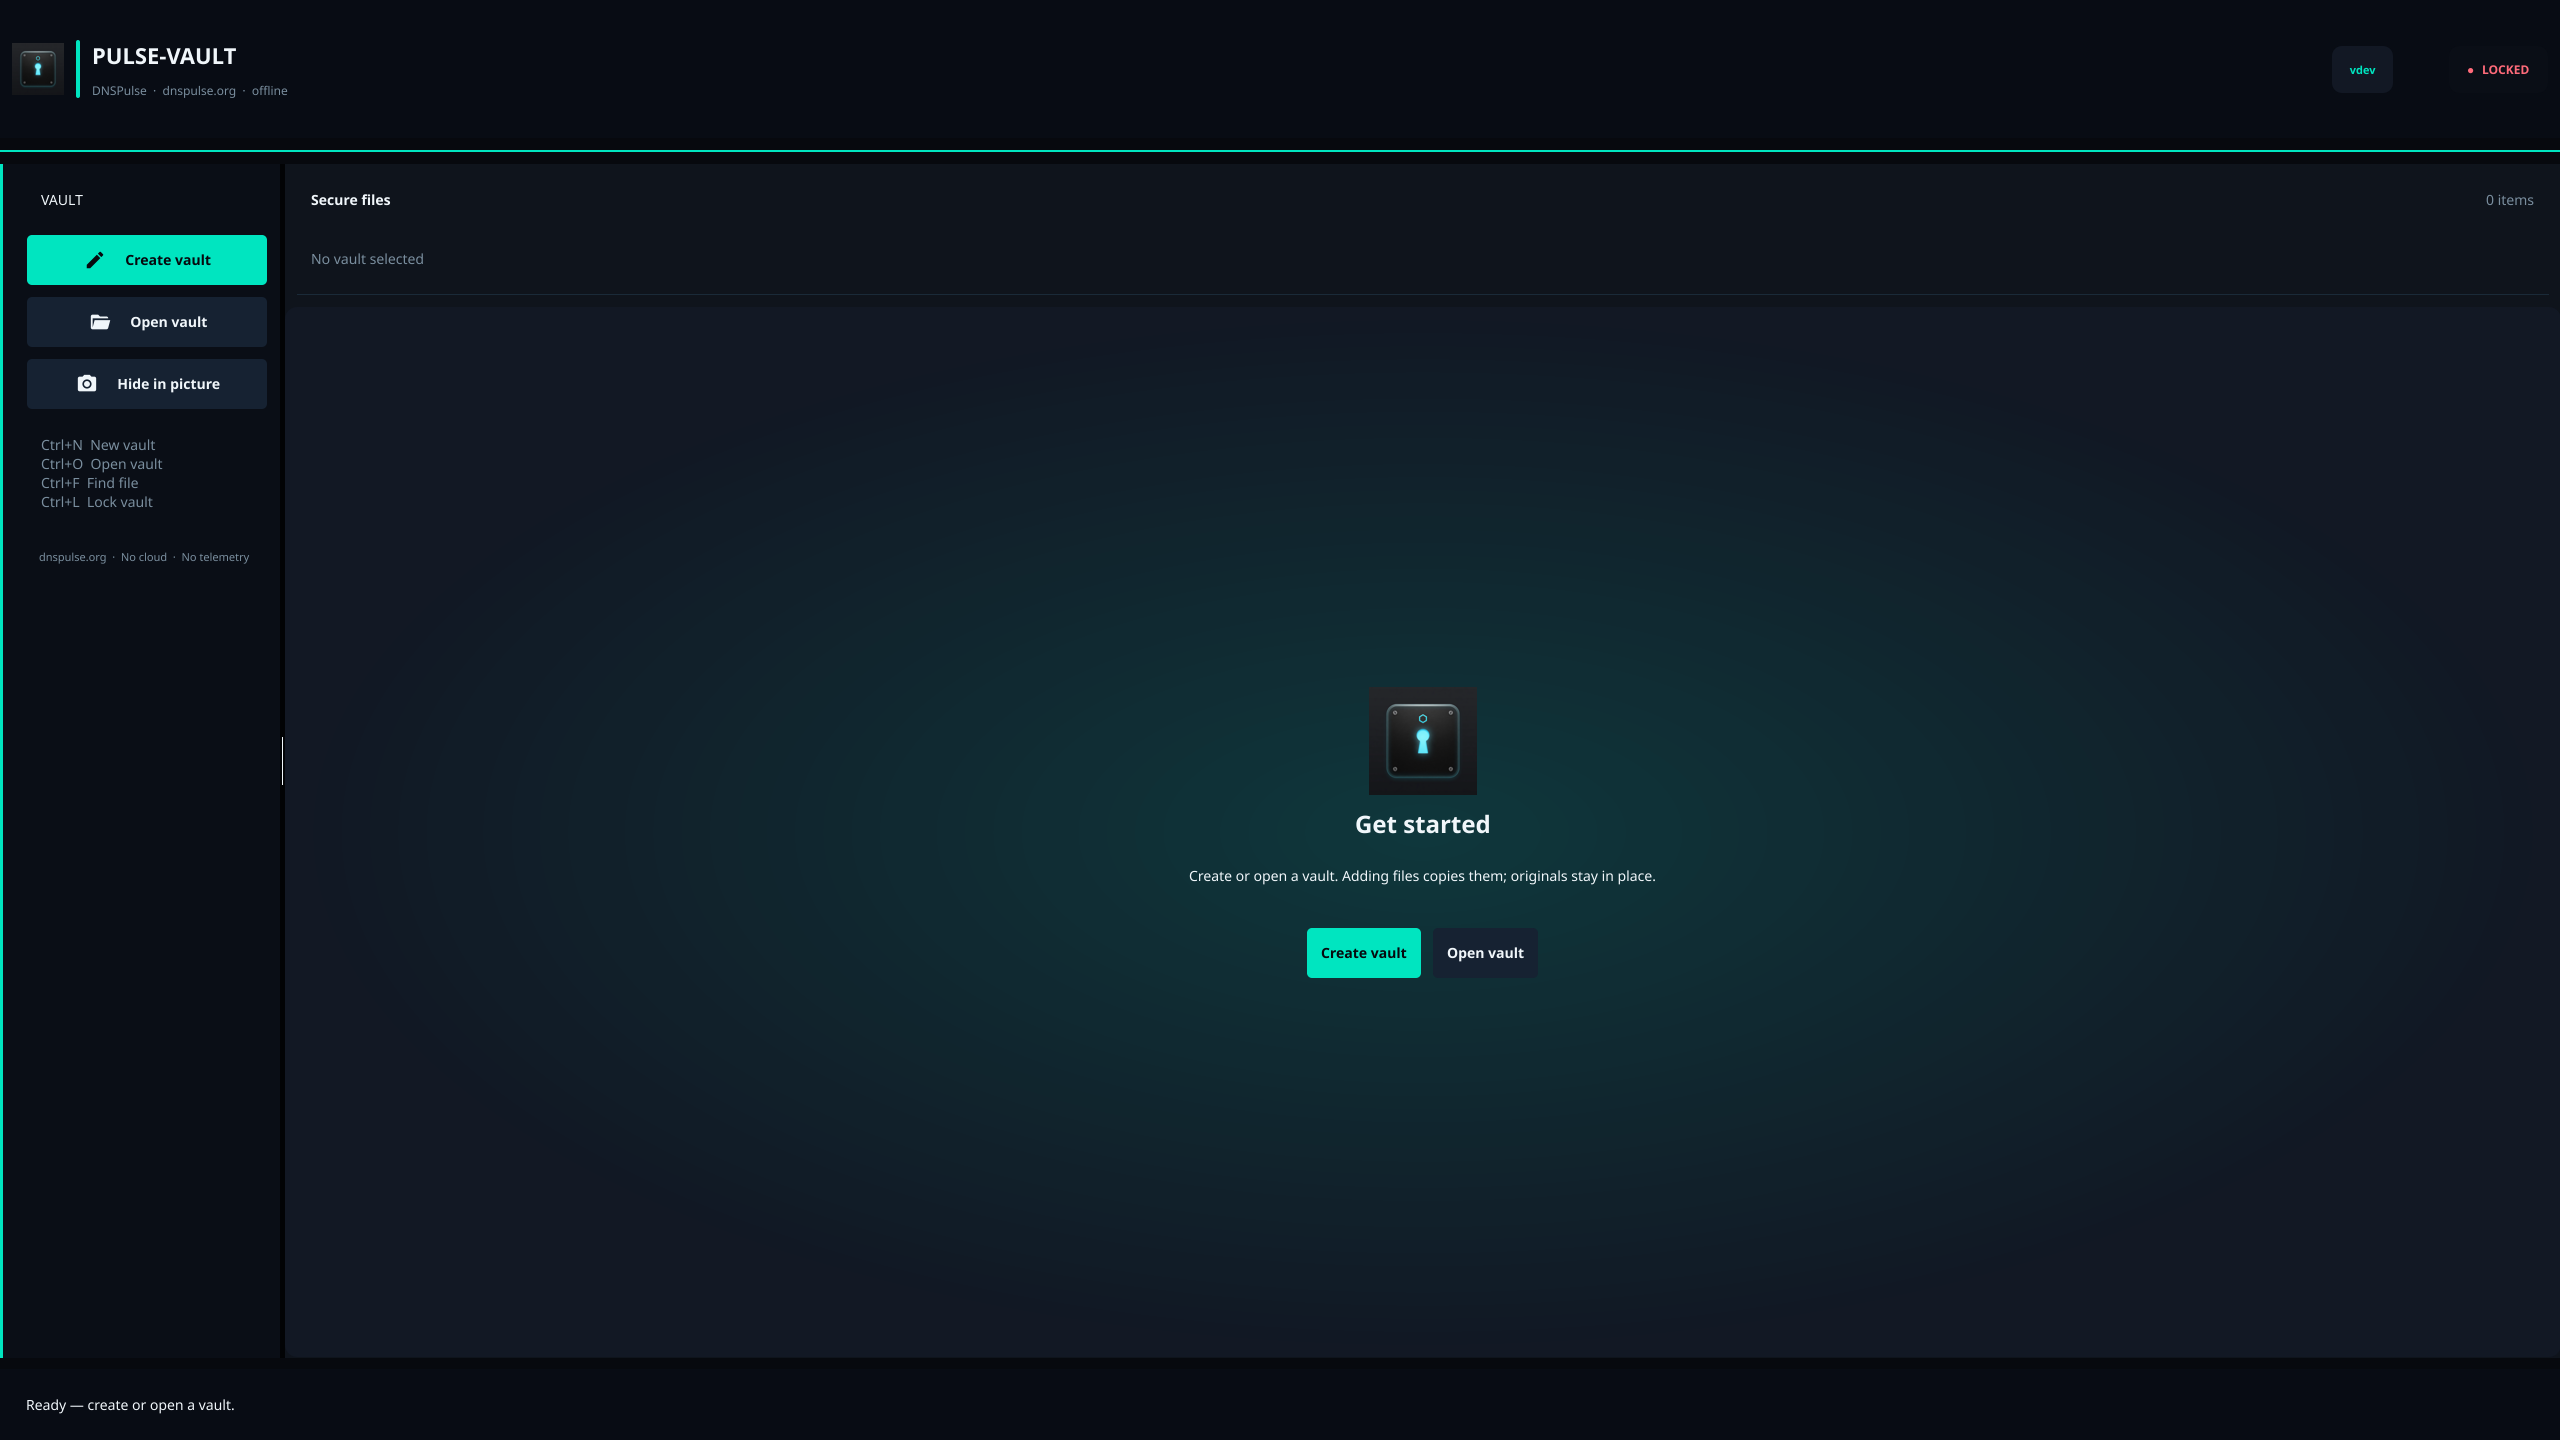
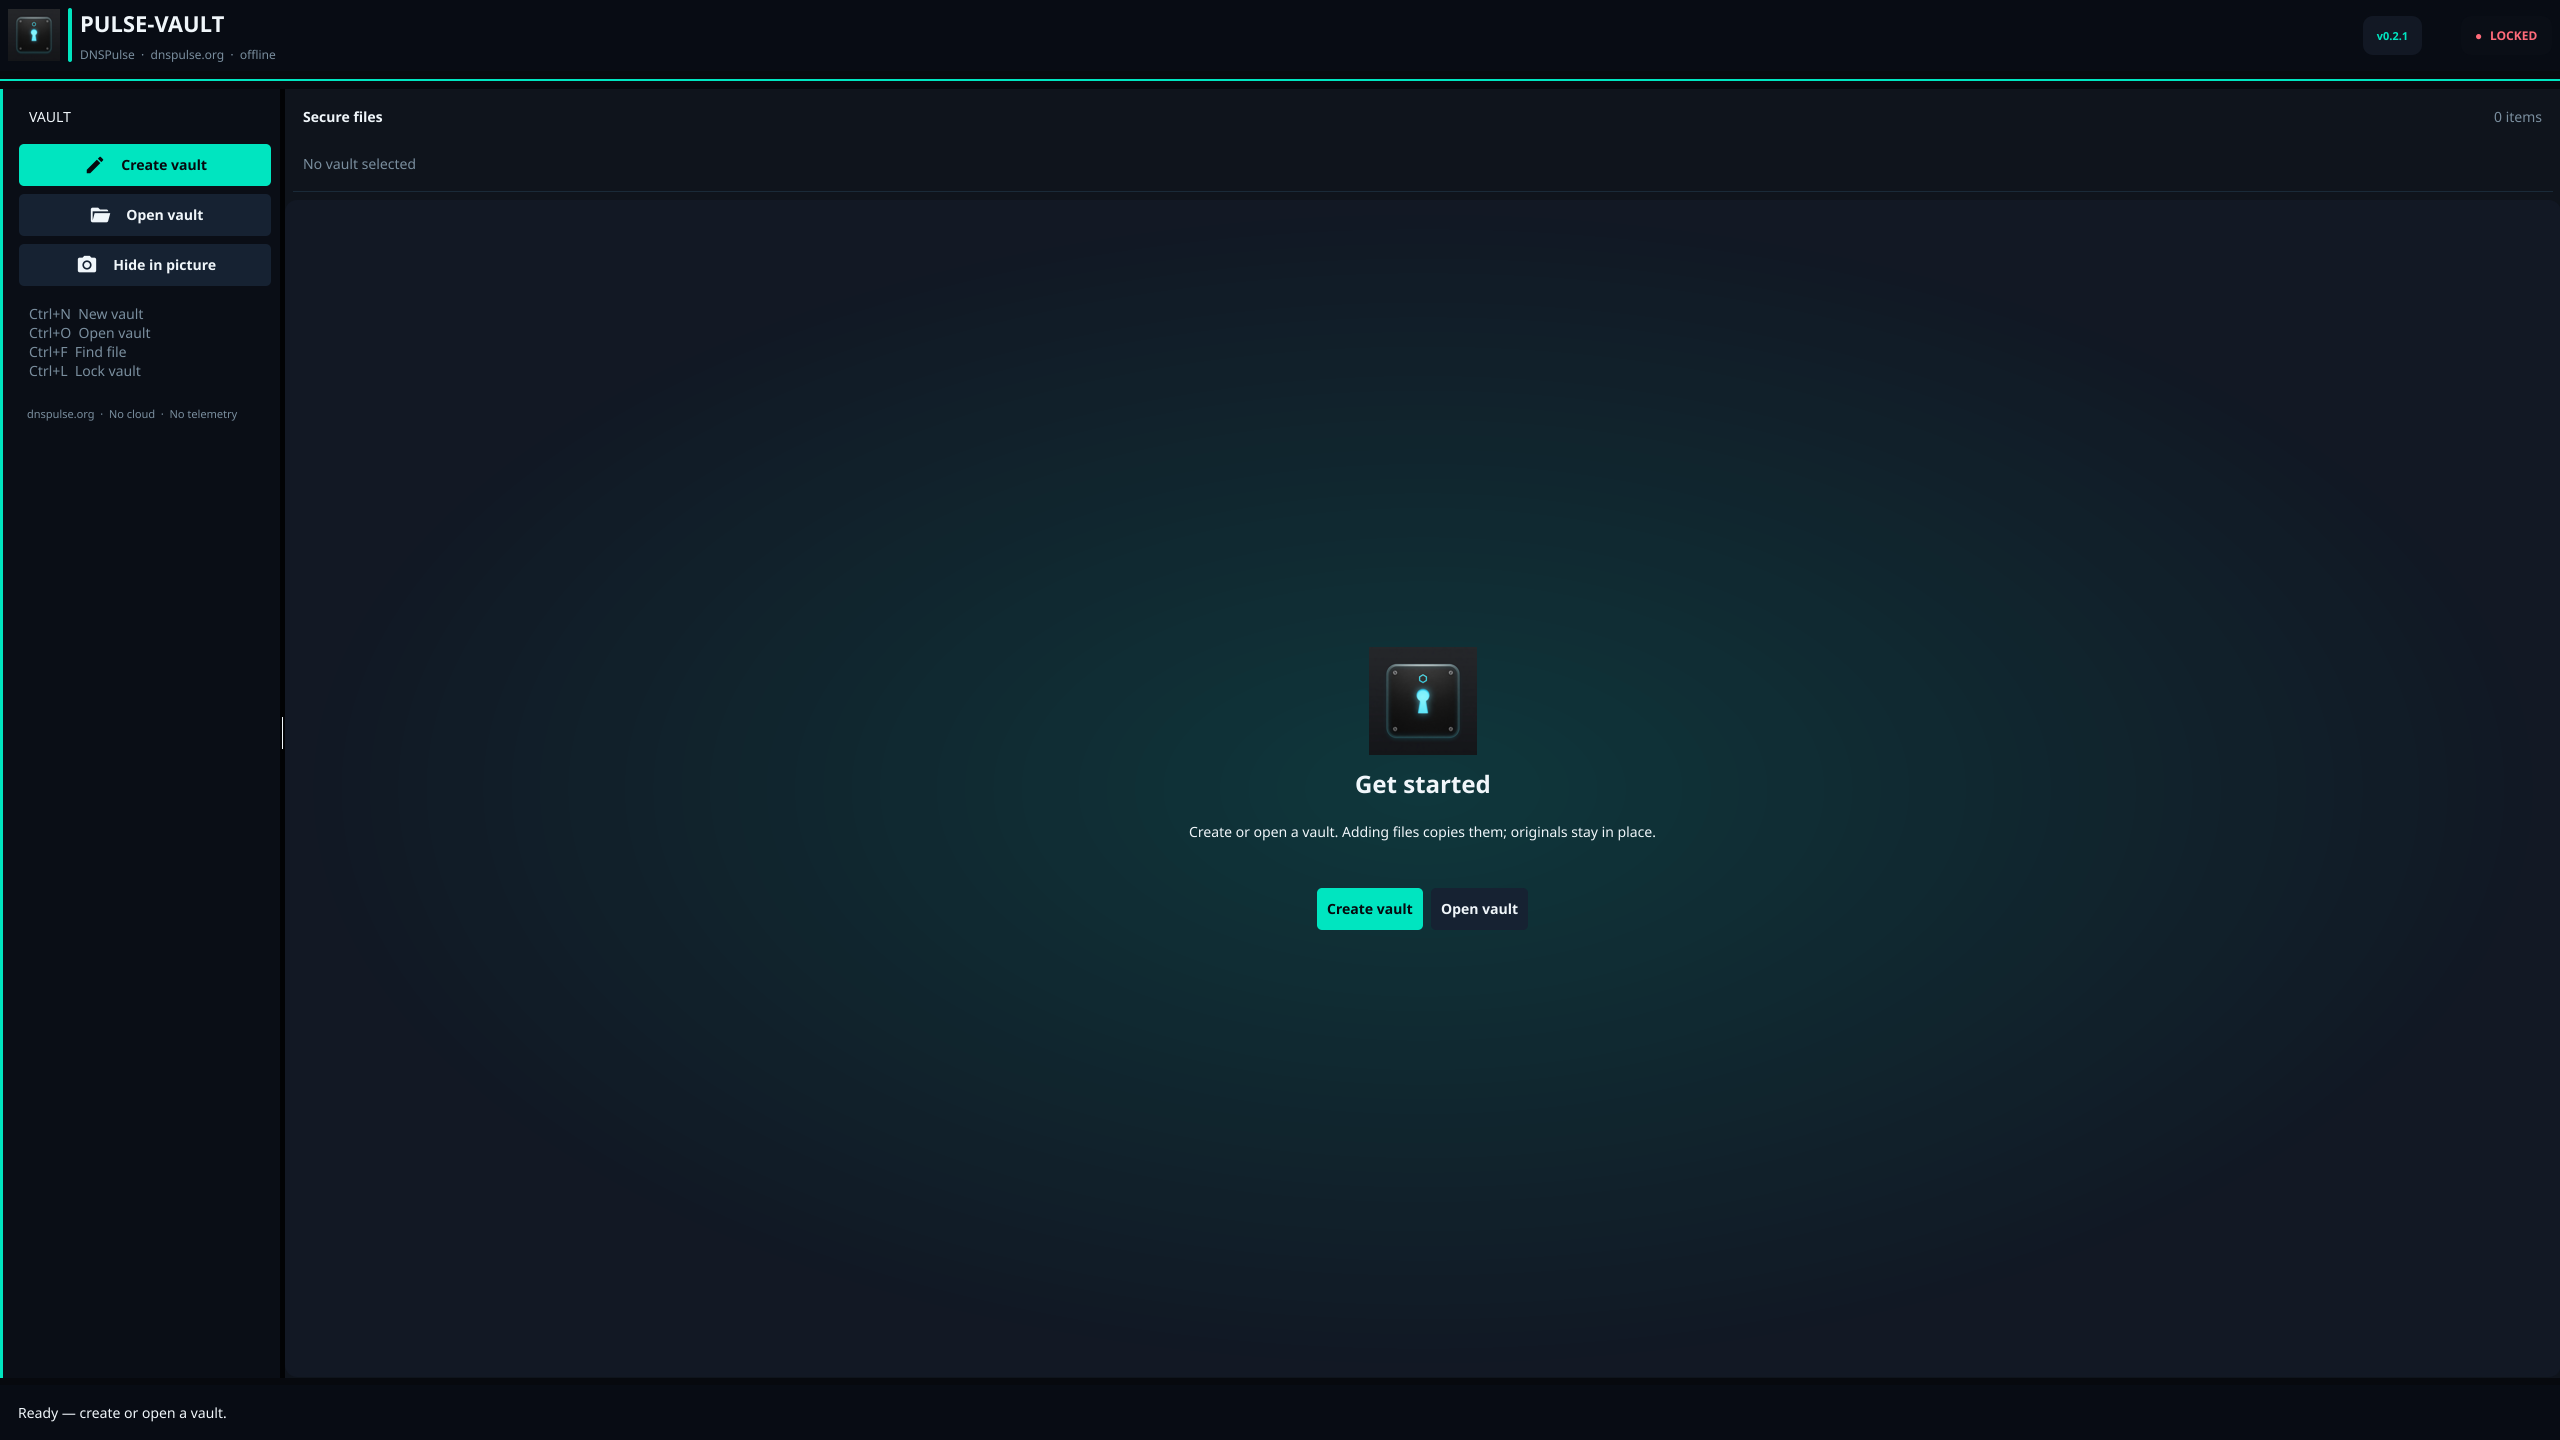
Fix compact window clipping and refresh previews

diff --git a/gui-go/internal/ui/app_regression_test.go b/gui-go/internal/ui/app_regression_test.go
@@ -19,6 +19,7 @@ import (
 func testUI(t *testing.T, size fyne.Size) (*App, fyne.App) {
 	t.Helper()
 	a := test.NewApp()
+	a.Settings().SetTheme(&PulseTheme{})
 	ui := &App{fyneApp: a}
 	ui.win = a.NewWindow(AppTitle)
 	ui.win.SetPadded(false)
@@ -35,7 +36,7 @@ func testUI(t *testing.T, size fyne.Size) (*App, fyne.App) {
 func TestResponsiveWindowLayoutAcrossCommonSizes(t *testing.T) {
 	ui, _ := testUI(t, fyne.NewSize(1120, 700))
 	sizes := []fyne.Size{
-		fyne.NewSize(560, 360),
+		fyne.NewSize(640, 360),
 		fyne.NewSize(640, 480),
 		fyne.NewSize(800, 600),
 		fyne.NewSize(1024, 768),
@@ -59,6 +60,9 @@ func TestResponsiveWindowLayoutAcrossCommonSizes(t *testing.T) {
 		if !ui.heroTitle.Visible() || !ui.heroActions.Visible() {
 			t.Errorf("at %v, the locked-state headline and actions must remain visible", size)
 		}
+		if size.Height <= 360 && ui.topBar.Size().Height >= size.Height/2 {
+			t.Errorf("at %v, the brand header consumes half the window: %v", size, ui.topBar.Size())
+		}
 		if ui.heroActions.Size().Width > ui.heroCard.Size().Width {
 			t.Errorf("at %v, empty-state actions exceed their card: actions=%v card=%v", size, ui.heroActions.Size(), ui.heroCard.Size())
 		}
@@ -75,12 +79,46 @@ func TestResponsiveWindowLayoutAcrossCommonSizes(t *testing.T) {
 	if math.Abs(ui.split.Offset-0.37) > 0.001 {
 		t.Fatal("a normal relayout should preserve the user's divider position")
 	}
-	for _, size := range []fyne.Size{fyne.NewSize(2560, 1440), fyne.NewSize(800, 600), fyne.NewSize(560, 360)} {
+	for _, size := range []fyne.Size{fyne.NewSize(2560, 1440), fyne.NewSize(800, 600), fyne.NewSize(640, 360)} {
 		ui.win.Resize(size)
 		want := float64(sidebarWidth(size.Width) / size.Width)
 		if math.Abs(ui.split.Offset-want) > 0.001 {
 			t.Errorf("after resizing back to %v, split offset = %.3f, want %.3f", size, ui.split.Offset, want)
 		}
+	}
+}
+
+func TestWindowMinimumSizeKeepsWorkspaceUsable(t *testing.T) {
+	ui, _ := testUI(t, fyne.NewSize(1120, 700))
+	tmp := t.TempDir()
+	v := vault.New(filepath.Join(tmp, "minimum.pulsevault"))
+	if err := v.Create("test-only-passphrase", "standard"); err != nil {
+		t.Fatal(err)
+	}
+	t.Cleanup(v.Lock)
+	source := filepath.Join(tmp, "sample.txt")
+	if err := os.WriteFile(source, []byte("sample"), 0o600); err != nil {
+		t.Fatal(err)
+	}
+	if err := v.AddFile(source, false); err != nil {
+		t.Fatal(err)
+	}
+	ui.v = v
+	ui.setUnlockedUI("example.pulsevault")
+	minimum := ui.root.MinSize()
+	if minimum.Width < 640 || minimum.Height < 380 {
+		t.Fatalf("window minimum %v is too small for both panes and persistent controls", minimum)
+	}
+	ui.win.Resize(minimum)
+	if ui.mainStage.Size().Width < 300 || ui.mainStage.Size().Height < 160 {
+		t.Fatalf("minimum supported window leaves an unusable workspace: %v", ui.mainStage.Size())
+	}
+	stageInner := ui.mainStage.Objects[1].(*fyne.Container)
+	if !stageInner.Objects[0].Visible() || ui.search.Size().Height <= 0 {
+		t.Fatalf("file heading and search must remain visible at minimum size %v: stage=%v header=%v/%v search=%v", minimum, ui.mainStage.Size(), stageInner.Objects[0].Visible(), stageInner.Objects[0].Size(), ui.search.Size())
+	}
+	if !ui.fileList.Visible() {
+		t.Fatal("the file list should remain visible at the minimum supported window size")
 	}
 }
 
@@ -121,7 +159,7 @@ func TestShortWindowRendersWithProductTheme(t *testing.T) {
 	ui := &App{fyneApp: a}
 	ui.win = a.NewWindow(AppTitle)
 	ui.win.SetPadded(false)
-	ui.win.Resize(fyne.NewSize(560, 360))
+	ui.win.Resize(fyne.NewSize(640, 360))
 	ui.build()
 	ui.setLockedUI()
 	t.Cleanup(func() { ui.win.Close(); a.Quit() })
@@ -135,8 +173,12 @@ func TestShortWindowRendersWithProductTheme(t *testing.T) {
 		t.Fatal("window capture failed")
 	}
 	stage := ui.mainStage.Objects[1].(*fyne.Container)
+	if !stage.Objects[0].Visible() {
+		t.Fatal("the contextual header should remain visible when the compact layout has room")
+	}
+	ui.win.Resize(fyne.NewSize(640, 240))
 	if stage.Objects[0].Visible() {
-		t.Fatal("the contextual header should collapse in a short window")
+		t.Fatal("the contextual header should collapse when the workspace is too short")
 	}
 	ui.win.Resize(fyne.NewSize(1120, 700))
 	if !stage.Objects[0].Visible() {
@@ -212,7 +254,7 @@ func TestControlStatesAcrossLockedBusyAndUnlocked(t *testing.T) {
 	if !ui.fileNav.Visible() || !ui.btnAdd.Visible() || !ui.btnAddFolder.Visible() {
 		t.Fatal("add actions should remain available in the unlocked navigation")
 	}
-	ui.win.Resize(fyne.NewSize(560, 360))
+	ui.win.Resize(fyne.NewSize(640, 360))
 	if ui.heroEmptyActions.Size().Width > ui.heroCard.Size().Width || !ui.heroAddFile.Visible() || !ui.heroAddFolder.Visible() {
 		t.Fatalf("empty-state actions should stay visible and fit at the minimum window size: actions=%v card=%v", ui.heroEmptyActions.Size(), ui.heroCard.Size())
 	}

diff --git a/gui-go/internal/ui/header.go b/gui-go/internal/ui/header.go
@@ -6,11 +6,12 @@ import (
 )
 
 const (
-	headerStackGap float32 = 8
-	headerSideGap  float32 = 16
-	navTargetWidth float32 = 228
-	shellMinWidth  float32 = 560
-	shellMinHeight float32 = 160
+	headerStackGap   float32 = 8
+	headerSideGap    float32 = 16
+	navTargetWidth   float32 = 228
+	shellMinWidth    float32 = 640
+	shellMinHeight   float32 = 240
+	stageBodyReserve float32 = 72
 )
 
 // stageContentLayout gives the workspace priority in short windows. The
@@ -27,7 +28,7 @@ func (stageContentLayout) Layout(objects []fyne.CanvasObject, size fyne.Size) {
 	}
 	header, content := objects[0], objects[1]
 	headerHeight := header.MinSize().Height
-	if size.Height < headerHeight+120 {
+	if size.Height < headerHeight+stageBodyReserve {
 		header.Hide()
 		headerHeight = 0
 	} else {
@@ -53,10 +54,13 @@ func (headerWrapLayout) MinSize(objects []fyne.CanvasObject) fyne.Size {
 	}
 	left := objects[0].MinSize()
 	right := objects[1].MinSize()
-	// Always reserve stacked height so a shrink cannot clip the chips.
+	// The minimum size should reflect the compact one-row layout. The window
+	// already has a minimum width large enough for the brand and status groups;
+	// reserving their stacked height here wastes most of the workspace on short
+	// windows even when Layout can place them side by side.
 	return fyne.NewSize(
-		fyne.Max(left.Width, right.Width),
-		left.Height+headerStackGap+right.Height,
+		left.Width+headerSideGap+right.Width,
+		fyne.Max(left.Height, right.Height),
 	)
 }
 

diff --git a/gui-go/internal/ui/header_test.go b/gui-go/internal/ui/header_test.go
@@ -30,6 +30,20 @@ func TestHeaderWrapStacksWhenNarrow(t *testing.T) {
 	}
 }
 
+func TestHeaderWrapMinSizeUsesCompactRow(t *testing.T) {
+	left := canvas.NewRectangle(color.White)
+	left.SetMinSize(fyne.NewSize(280, 48))
+	right := canvas.NewRectangle(color.White)
+	right.SetMinSize(fyne.NewSize(180, 36))
+	min := (headerWrapLayout{}).MinSize([]fyne.CanvasObject{left, right})
+	if min.Height != 48 {
+		t.Fatalf("header min height = %v, want one-row height 48", min.Height)
+	}
+	if min.Width < left.MinSize().Width+headerSideGap+right.MinSize().Width {
+		t.Fatalf("header min width = %v, does not fit both groups", min.Width)
+	}
+}
+
 func TestSplitFitMinSize(t *testing.T) {
 	inner := canvas.NewRectangle(color.White)
 	inner.SetMinSize(fyne.NewSize(100, 100))

diff --git a/gui-go/internal/ui/theme.go b/gui-go/internal/ui/theme.go
@@ -97,9 +97,9 @@ func (t *PulseTheme) Icon(name fyne.ThemeIconName) fyne.Resource {
 func (t *PulseTheme) Size(name fyne.ThemeSizeName) float32 {
 	switch name {
 	case theme.SizeNamePadding:
-		return 12
+		return 8
 	case theme.SizeNameInnerPadding:
-		return 14
+		return 10
 	case theme.SizeNameText:
 		return 14
 	case theme.SizeNameHeadingText:

diff --git a/docs/TWO_MINUTE_GUIDE.md b/docs/TWO_MINUTE_GUIDE.md
@@ -4,9 +4,15 @@ The first run takes about two minutes with a small test file, after the desktop 
 
 Get the app from [GitHub Releases](https://github.com/Z3r0s/Pulse-Vault/releases). Choose the GUI file for your operating system; if there is no matching download, use the [install guide](../INSTALL.md). No account or network connection is needed to use the app after installation.
 
-![Pulse-Vault desktop app at 1920 by 1080 pixels](assets/pulse-vault-desktop.png)
+![Pulse-Vault desktop app at its default 1120 by 700 window size](assets/pulse-vault-desktop.png)
 
 [Open the same screen at full 1440p resolution (2560×1440)](assets/pulse-vault-desktop-1440p.png).
+
+After you create or open a vault, an empty vault offers **Add file** and **Add folder** in the workspace. With files added, search filters their saved paths and the sidebar offers single-file and full-vault restore actions. The examples below use synthetic file names.
+
+![An unlocked empty vault with direct Add file and Add folder actions](assets/pulse-vault-empty.png)
+
+![A populated vault with path search and save actions](assets/pulse-vault-files.png)
 
 ## The two-minute path
 

diff --git a/README.md b/README.md
@@ -22,7 +22,7 @@ Pulse-Vault is local storage, not a backup service. Keep a separate backup of th
 
 Follow the [two-minute desktop guide](docs/TWO_MINUTE_GUIDE.md) to create a vault, add a file, reopen it, and test a restore. Download the app for your operating system from [GitHub Releases](https://github.com/Z3r0s/Pulse-Vault/releases); the [install guide](INSTALL.md) covers source builds if your release asset is unavailable.
 
-The GUI works offline. It does not create an account or sync your files.
+The GUI works offline. It does not create an account or sync your files. An empty unlocked vault offers **Add file** and **Add folder** directly; once files are present, the workspace adds path search, **Save a copy**, and **Save all files**.
 
 ![Pulse-Vault desktop app showing a locked vault](docs/assets/pulse-vault-desktop.png)
 

diff --git a/gui-go/README.md b/gui-go/README.md
@@ -14,6 +14,8 @@ For everyday use, start with the [desktop walkthrough](../docs/TWO_MINUTE_GUIDE.
 - Append a vault to supported image/video media. This preserves the media prefix but is not steganography.
 - Cancelable long-running GUI work, with progress and a temporary-space estimate before add or password rotation.
 
+The desktop window opens at 1120×700 and keeps a minimum size of about 640×392 so the navigation, file search, and workspace remain usable together. The layout tightens its header and collapses secondary context when the window is short.
+
 New vaults use the V6 authenticated stream format. Folder trees use the V7 container marker and V6 streams; V5 streams remain readable. See [the format guide](../docs/VAULT_FORMAT.md).
 
 ## Build
